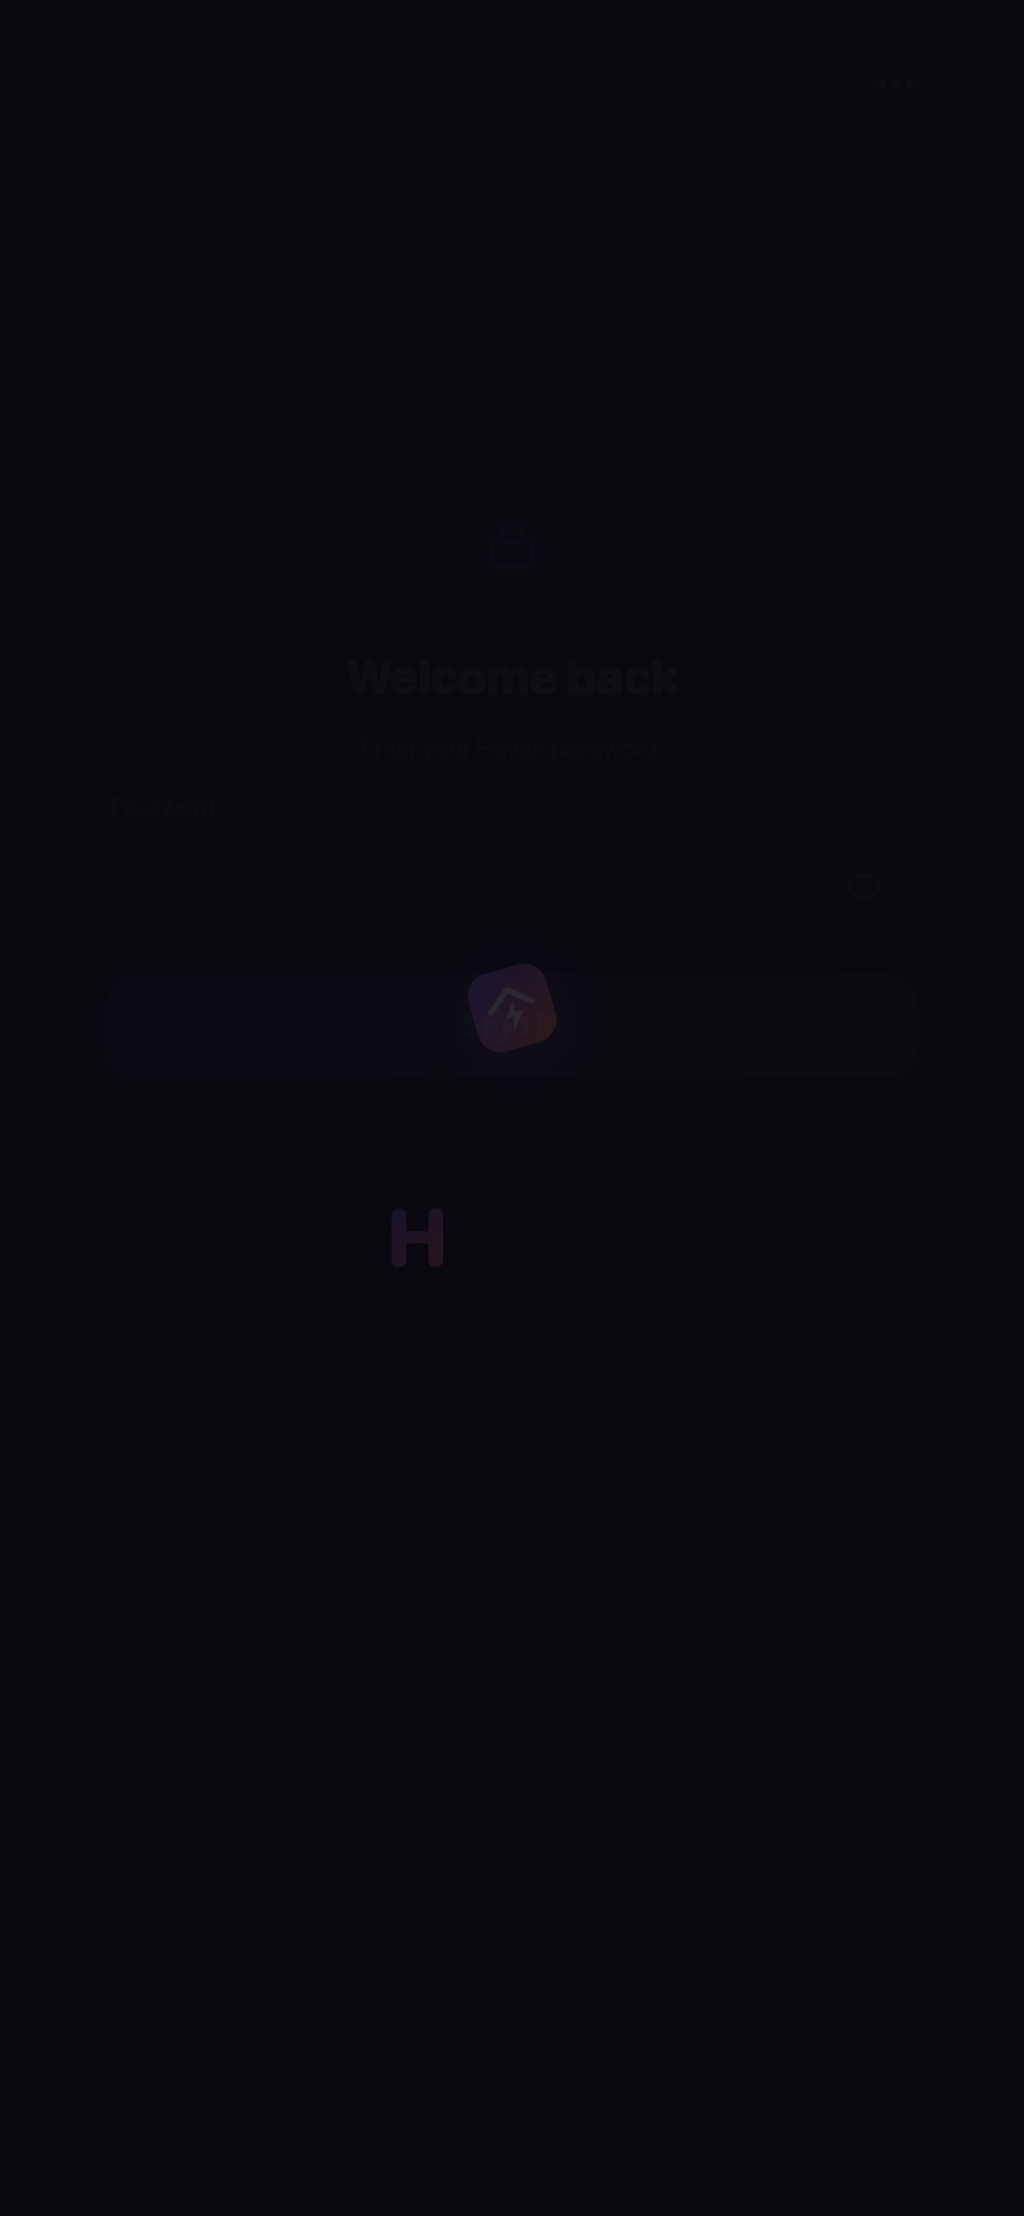
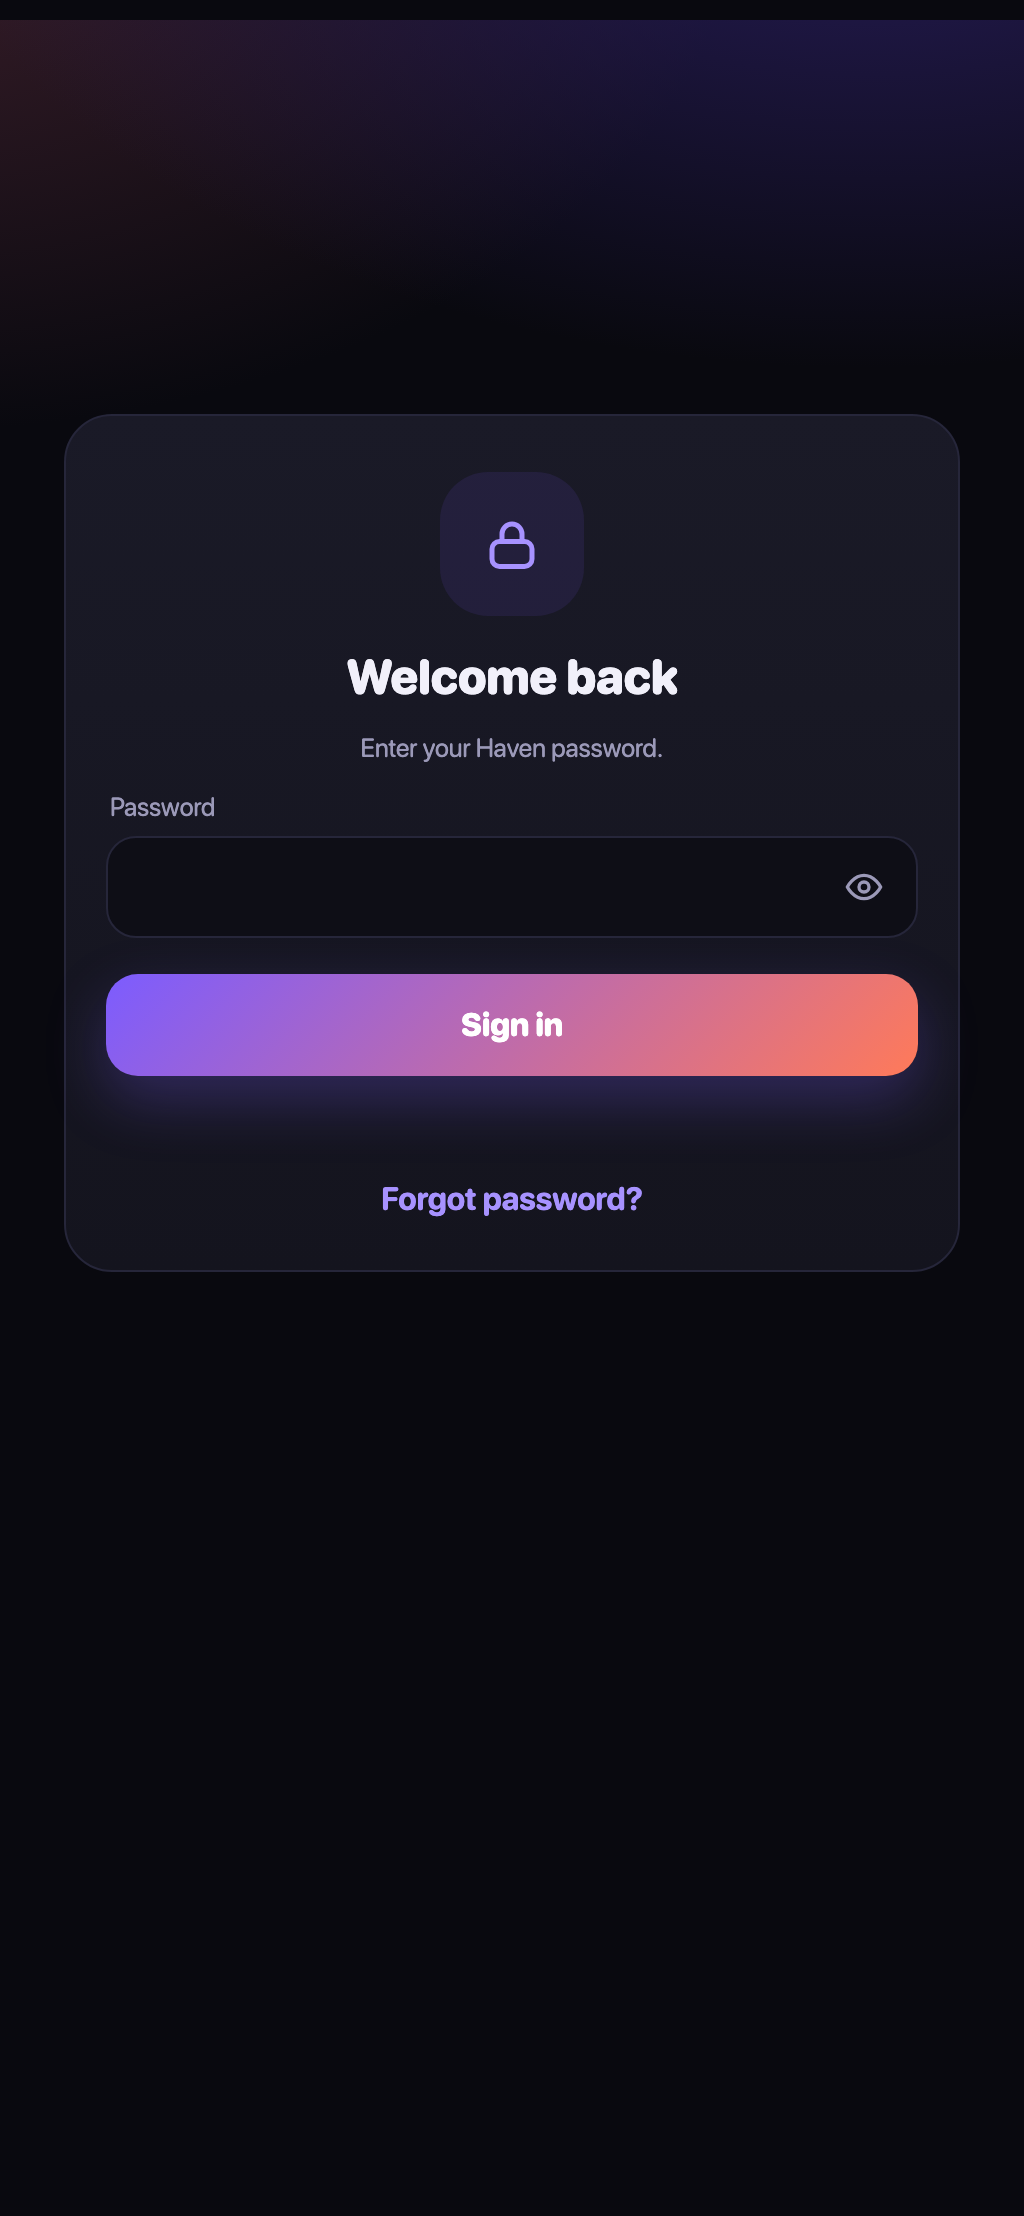
Setup at haven.local (captive portal), BOOT 3 s / 10 s resets with LED feedback, forgot-password help, loading dots on buttons

diff --git a/firmware/home_bridge/web_app.h b/firmware/home_bridge/web_app.h
@@ -115,7 +115,11 @@ input:focus{outline:2px solid var(--brand);border-color:transparent}
 .net:hover,.net.sel{border-color:#7C5CFF88;background:#7C5CFF12}
 .lock{width:72px;height:72px;border-radius:24px;margin:8px auto 16px;display:grid;place-items:center;background:#7C5CFF1a;color:#A792FF}
 .swatches{display:flex;gap:10px;flex-wrap:wrap}.swatch{width:40px;height:40px;border-radius:50%;border:2px solid #ffffff22}
-input[type=range]{width:100%;accent-color:#9B80FF}input[type=color]{width:40px;height:40px;border:0;padding:0;background:none}
+input[type=range]{width:100%;accent-color:#9B80FF}
+.busy{pointer-events:none;position:relative;color:transparent!important}.busy>:not(.ld),.sw.busy:after{visibility:hidden}
+.ld{position:absolute;inset:0;display:flex;align-items:center;justify-content:center;gap:5px}.ld i{width:7px;height:7px;border-radius:50%;background:#fff;animation:ld 1s infinite}
+.ld i:nth-child(2){animation-delay:.15s}.ld i:nth-child(3){animation-delay:.3s}.power .ld i{width:12px;height:12px}
+@keyframes ld{0%,80%,100%{transform:scale(.45);opacity:.35}40%{transform:none;opacity:1}}input[type=color]{width:40px;height:40px;border:0;padding:0;background:none}
 #sheetbg{position:fixed;inset:0;z-index:30;background:#000a;opacity:0;visibility:hidden;transition:.25s}#sheetbg.open{opacity:1;visibility:visible}
 #sheet{position:fixed;left:0;right:0;bottom:0;z-index:31;max-width:480px;margin:0 auto;padding:10px 20px calc(24px + env(safe-area-inset-bottom));
 border-radius:28px 28px 0 0;background:var(--card2);border:1px solid var(--line);transform:translateY(105%);transition:transform .3s cubic-bezier(.2,.9,.3,1)}
@@ -154,12 +158,16 @@ search:'<circle cx=11 cy=11 r=7 /><path d="M20 20l-3.5-3.5"/>',trash:'<path d="M
 const $=i=>document.getElementById(i),esc=s=>String(s??'').replace(/[&<>"']/g,c=>'&#'+c.charCodeAt(0)+';');
 const DAYS=['M','T','W','T','F','S','S'],DAYN=['Mon','Tue','Wed','Thu','Fri','Sat','Sun'];
 let S=null,view='home',devId=0,skew=0,started=Date.now(),hist={},unreachable=false,authMode='';
-$('splogo').outerHTML=LOGO;$('barlogo').innerHTML=LOGO;$('bmenu').innerHTML=P(I.dots);
+$('splogo').outerHTML=LOGO;if(location.hash=='#nosplash')$('splash').remove();  // screenshots
+$('barlogo').innerHTML=LOGO;$('bmenu').innerHTML=P(I.dots);
 
-async function api(p,body){try{const r=await fetch(p,body?{method:'POST',body:new URLSearchParams(body)}:{});let j={};try{j=await r.json()}catch(e){}
+let lastBtn=null;document.addEventListener('click',e=>{lastBtn=e.target.closest('button');setTimeout(()=>lastBtn=null)},true);
+function busy(b,on){if(!b)return;b.classList.toggle('busy',on);if(on&&!b.querySelector('.ld'))b.insertAdjacentHTML('beforeend','<span class=ld><i></i><i></i><i></i></span>')}
+async function api(p,body){const b=lastBtn;lastBtn=null;busy(b,true);try{return await api0(p,body)}finally{busy(b,false)}}
+async function api0(p,body){try{const r=await fetch(p,body?{method:'POST',body:new URLSearchParams(body)}:{});let j={};try{j=await r.json()}catch(e){}
 unreachable=false;return{ok:r.ok,status:r.status,j}}catch(e){unreachable=true;return{ok:false,status:0,j:{error:'Can\'t reach Haven'}}}}
 function toast(t){const e=$('toast');e.textContent=t;e.classList.add('show');clearTimeout(e._t);e._t=setTimeout(()=>e.classList.remove('show'),2600)}
-function splashDone(){if(location.hash=='#splash')return;const w=Math.max(0,1500-(Date.now()-started));setTimeout(()=>$('splash').classList.add('out'),w)}
+function splashDone(){if(location.hash=='#splash'||!$('splash'))return;const w=Math.max(0,1500-(Date.now()-started));setTimeout(()=>$('splash').classList.add('out'),w)}
 function go(v,id){const h='#'+v+(v=='device'?'/'+(id??devId):'');if(location.hash!=h&&v!='login')return location.hash=h;show(v,id)}
 function show(v,id){view=v;if(id!=null)devId=+id;closeMenu();window.scrollTo(0,0);render(true);if(v=='device')loadHist();if(v=='wifi')scanWifi();if(v=='add')$('view')&&scanDevices()}
 async function load(){const r=await api('/api/state');if(r.status==401){authMode=r.j.auth;view='login';render(true);return splashDone()}
@@ -274,7 +282,7 @@ function editRule(i){const d=dev(),r=i>=0?S.rules[i]:{address:d.address,enabled:
 async function saveRules(list){const r=await api('/api/rules',{json:JSON.stringify(list)});if(!r.ok)return toast(r.j.error||'Could not save');S=r.j;closeSheet();render(true);toast('Schedule saved')}
 function toggleRule(i){const list=S.rules.slice();list[i]={...list[i],enabled:!list[i].enabled};saveRules(list)}
 async function timer(m){const r=await api('/api/timer',{id:devId,min:m});if(!r.ok)return toast(r.j.error);S=r.j;render(true);toast(m?'Turns off in '+fmtDur(m*60):'Timer cancelled')}
-async function setDev(id,q){const d=S.devices[id];if(q.on!=null){d.on=!!q.on;render(true)}const r=await api('/api/device',{id,...q});if(r.ok){S=r.j;render(true)}else{toast(r.j.error||'Failed');load()}}
+async function setDev(id,q){const r=await api('/api/device',{id,...q});if(r.ok){S=r.j;render(true)}else{toast(r.j.error||'Failed');load()}}
 async function loadHist(){const d=dev();if(!d||d.kind!='plug')return;const r=await api('/api/history?id='+d.id);if(r.ok){hist[d.id]=r.j;drawChart()}}
 function drawChart(){const c=$('chart'),h=hist[devId];if(!c)return;if(!h){c.innerHTML='';return}
  const w=h.w,max=Math.max(1,...w)*1.15,pts=w.map((v,i)=>[i*300/(w.length-1),150-v/max*140]);
@@ -286,7 +294,12 @@ function drawChart(){const c=$('chart'),h=hist[devId];if(!c)return;if(!h){c.inne
 function loginView(){const c=authMode=='create';return`<section class=card style="margin-top:12vh"><div class=lock>${P(I.lock,30)}</div>
  <h2 class=center>${c?'Secure your Haven':'Welcome back'}</h2><p class="mute center small">${c?'Create a password for this bridge. At least 6 characters.':'Enter your Haven password.'}</p>
  <form onsubmit="return doLogin(event)"><label>Password</label>${eyeField('pw','',c?'new-password':'current-password')}
- ${c?'<label>Confirm password</label>'+eyeField('pw2','','new-password'):''}<button class=btn id=lbtn>${c?'Create & continue':'Sign in'}</button><div class=err id=lerr></div></form></section>`}
+ ${c?'<label>Confirm password</label>'+eyeField('pw2','','new-password'):''}<button class=btn id=lbtn>${c?'Create & continue':'Sign in'}</button><div class=err id=lerr></div></form>
+ ${c?'':'<button type=button class=link style="display:block;margin:14px auto 0" onclick="forgot()">Forgot password?</button>'}</section>`}
+function forgot(){sheet(`<h2>Reset your password</h2><p class=mute>Use the <b style="color:var(--text)">BOOT</b> button on the Haven board (next to the USB port):</p>
+ <div class=kv><span>Hold 3 s</span><b>Reset Wi-Fi + password</b></div><div class=kv><span>Hold 10 s</span><b>Erase everything</b></div>
+ <p class="mute small">The blue light blinks slowly, then fast after 3 s, and stays on after 10 s. Let go to apply. Your devices and schedules are kept with the 3 s reset.
+ Then join the <b style="color:var(--text)">Haven-Setup</b> Wi-Fi and open haven.local.</p><button class=btn onclick="closeSheet()">Got it</button>`)}
 async function doLogin(e){e.preventDefault();if(authMode=='create'&&$('pw').value!=$('pw2').value){$('lerr').textContent='Passwords don\'t match';return false}
  $('lbtn').disabled=true;const r=await api('/api/login',{password:$('pw').value});$('lbtn').disabled=false;
  if(r.ok){view='home';load()}else $('lerr').textContent=r.j.error||'Sign-in failed';return false}

diff --git a/tools/preview.py b/tools/preview.py
@@ -3,7 +3,7 @@ can be designed and screenshotted without the ESP32.
 
     python3 tools/preview.py            → http://localhost:8080
     python3 tools/preview.py --login    → sign-in screen, on :8081
-    http://localhost:8080/#splash       → splash screen held, for screenshots
+    http://localhost:8080/#splash       → splash screen held; #nosplash skips it (screenshots)
 """
 import json, math, re, sys, time
 from http.server import BaseHTTPRequestHandler, ThreadingHTTPServer

diff --git a/firmware/home_bridge/web.h b/firmware/home_bridge/web.h
@@ -267,5 +267,12 @@ void startWeb() {
     restartSoon();
   });
 
+  // Setup hotspot: any other URL (phones' captive-portal checks) lands on the app.
+  web.onNotFound([] {
+    if (online) return web.send(404, "text/plain", "Not found");
+    web.sendHeader("Location", "http://192.168.4.1/");
+    web.send(302, "text/plain", "");
+  });
+
   web.begin();
 }

diff --git a/README.md b/README.md
@@ -44,7 +44,7 @@ Protocol notes: [docs/awox_smartplug.md](docs/awox_smartplug.md) and [PLAN.md](P
   schedules or the plug's own button are pushed back so the assistants stay in sync.
 - **Network panel**: Wi-Fi name, signal, IP, uptime, reconnections, cloud and clock status.
 - **Secure by default**: password on first visit (SHA-256, per-device salt), HttpOnly session cookie.
-- **Self-healing**: automatic Wi-Fi and Bluetooth reconnection; a setup hotspot when Wi-Fi is unreachable.
+- **Self-healing**: automatic Wi-Fi and Bluetooth reconnection; a setup hotspot (captive portal) when Wi-Fi is unreachable.
 
 ## How it works
 
@@ -82,14 +82,16 @@ flowchart LR
    arduino-cli compile -b esp32:esp32:esp32:PartitionScheme=huge_app .
    arduino-cli upload  -b esp32:esp32:esp32:PartitionScheme=huge_app -p /dev/cu.usbserial-0001 .
    ```
-3. **Join Wi-Fi:** on your phone, connect to the **Haven-Setup** hotspot, open http://192.168.4.1,
-   create a password and pick your network.
+3. **Join Wi-Fi:** on your phone, connect to the **Haven-Setup** hotspot. The setup page opens by itself
+   (or browse to http://haven.local); create a password and pick your network.
 4. **Add devices:** open http://haven.local → ⋯ → *Add device* → *Scan*. Close the vendor app first; each
    device accepts one Bluetooth connection at a time. The first plug and lamp get the Sinric Pro IDs from `secrets.h`.
 5. **Voice:** in the Alexa app enable the **Sinric Pro** skill (or link Sinric Pro in Google Home), then
    *“Alexa, turn on SmartPLUG.”*
 
-**Reset:** hold the board's **BOOT** button for 5 s to erase Wi-Fi, password, devices and schedules.
+**Reset (forgotten password, new Wi-Fi):** hold the board's **BOOT** button and let go after
+**3 s** to reset Wi-Fi + password (devices and schedules stay), or after **10 s** to erase everything.
+The blue LED blinks slowly, then fast after 3 s, and stays on after 10 s.
 
 ### Serial console (115200 baud)
 
@@ -99,7 +101,7 @@ flowchart LR
 | `scan` | Lists nearby plugs and lamps |
 | `add plug\|lamp <address> [name]` | Adds a device without the app |
 | `wifi-reset` | Forgets Wi-Fi and the password (devices and schedules stay) |
-| `factory-reset` | Erases everything, like holding BOOT for 5 s |
+| `factory-reset` | Erases everything, like holding BOOT for 10 s |
 
 ## Development
 
